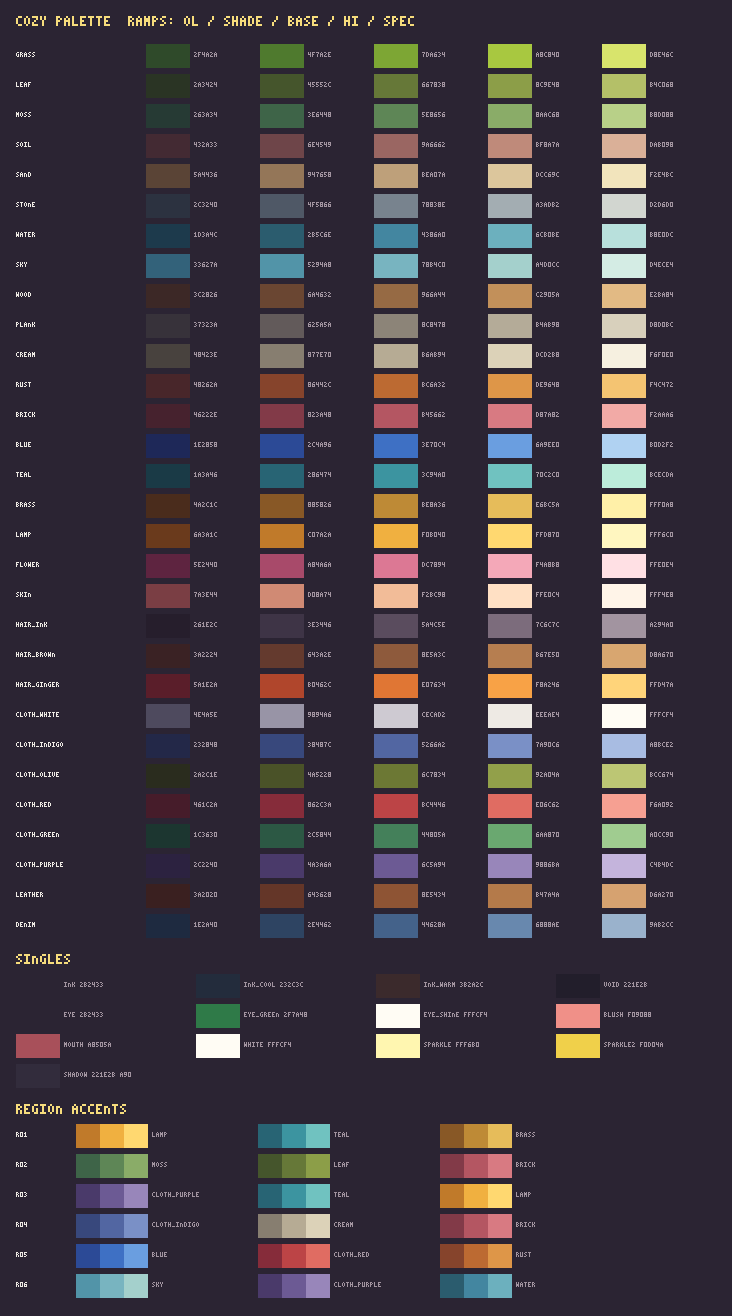
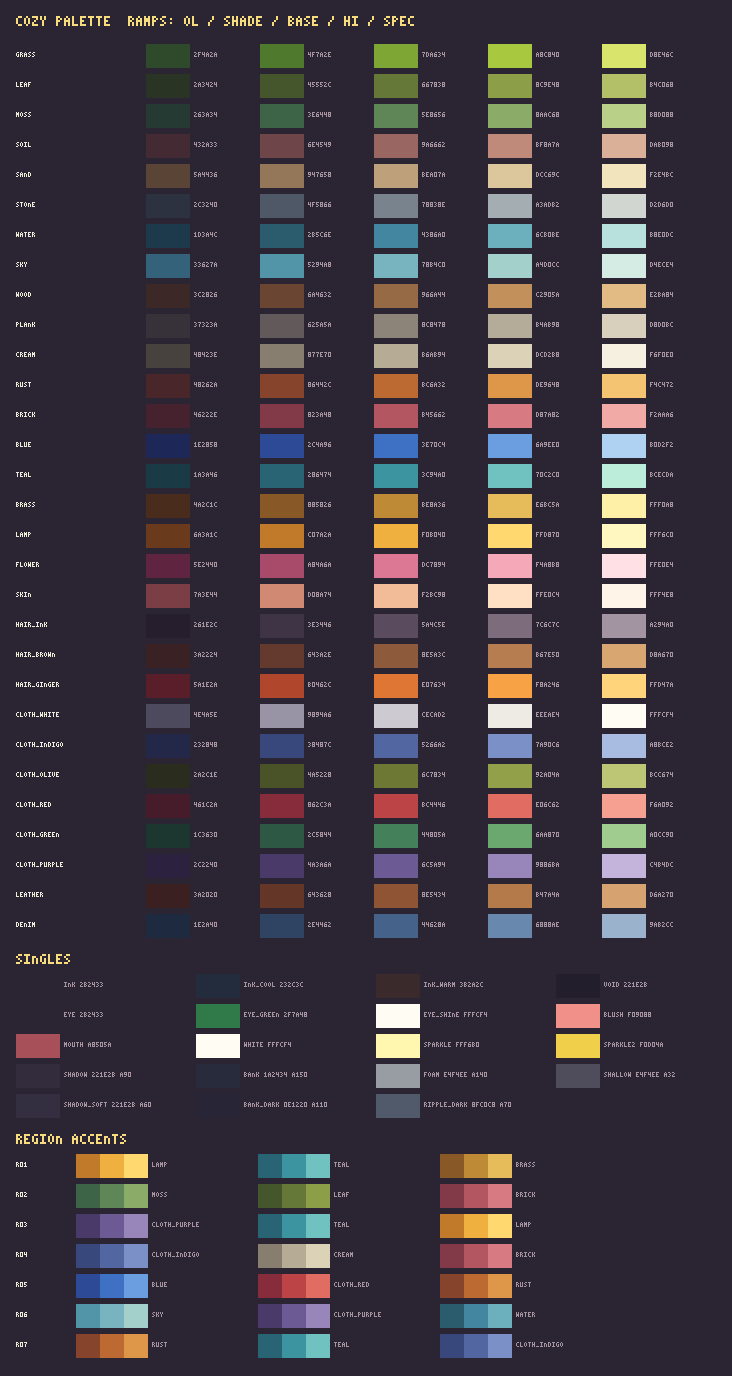
화풍 통일: 지역 3~7 병렬 준비(r07 강조 램프 rust·teal·cloth_indigo, 미리보기 스크립트에 지역 칸·다중 보스, DECO_UNDER 자동 수집)

diff --git a/tools/art/monster_preview.py b/tools/art/monster_preview.py
@@ -15,14 +15,24 @@ sys.path.insert(0, HERE)
 
 from boss import BOSSES  # noqa: E402
 from build import text  # noqa: E402
+from cave_boss import CAVE_BOSSES  # noqa: E402
+from cave_monsters import CAVE_MONSTERS  # noqa: E402
 from cozysamples import grass, path  # noqa: E402
+from desert_boss import DESERT_BOSSES  # noqa: E402
+from desert_monsters import DESERT_MONSTERS  # noqa: E402
 from forest_boss import FOREST_BOSSES  # noqa: E402
 from forest_monsters import FOREST_MONSTERS  # noqa: E402
 from forest_tiles import FOREST_FLOOR, ROOT_FLOOR  # noqa: E402
 from gif import write_gif  # noqa: E402
 from gridlib import Canvas  # noqa: E402
+from lake_boss import LAKE_BOSSES  # noqa: E402
+from lake_monsters import LAKE_MONSTERS  # noqa: E402
+from library_boss import LIBRARY_BOSSES  # noqa: E402
+from library_monsters import LIBRARY_MONSTERS  # noqa: E402
 from monsters import MONSTERS  # noqa: E402
 from png import encode_png  # noqa: E402
+from port_boss import PORT_BOSSES  # noqa: E402
+from port_monsters import PORT_MONSTERS  # noqa: E402
 
 ROOT = os.path.normpath(os.path.join(HERE, "..", ".."))
 OUT = os.path.join(ROOT, "docs", "art-overhaul")
@@ -59,7 +69,51 @@ REGIONS = {
         },
         "boss": ("boss_crossroad_tree", "doze / breathe / hand turns / awake (roots glow)"),
     },
+    # 지역 3~7: 화풍 통일 병렬 작업에서 그 지역 에이전트가 자기 칸의 floor·path·notes·boss만 채운다.
+    # floor·path는 그 지역 타일 모듈을 함수 안에서 import한다(이 파일 머리의 import는 고치지 않음).
+    # boss는 (이름, 메모) 하나 또는 보스가 둘인 지역은 그 목록
+    "r03": {
+        "out": "r03-monsters", "title": "region 3 monsters", "monsters": CAVE_MONSTERS, "bosses": CAVE_BOSSES,
+        "floor": None,
+        "path": None,
+        "notes": {},
+        "boss": None,
+    },
+    "r04": {
+        "out": "r04-monsters", "title": "region 4 monsters", "monsters": LIBRARY_MONSTERS, "bosses": LIBRARY_BOSSES,
+        "floor": None,
+        "path": None,
+        "notes": {},
+        "boss": None,
+    },
+    "r05": {
+        "out": "r05-monsters", "title": "region 5 monsters", "monsters": PORT_MONSTERS, "bosses": PORT_BOSSES,
+        "floor": None,
+        "path": None,
+        "notes": {},
+        "boss": None,
+    },
+    "r06": {
+        "out": "r06-monsters", "title": "region 6 monsters", "monsters": LAKE_MONSTERS, "bosses": LAKE_BOSSES,
+        "floor": None,
+        "path": None,
+        "notes": {},
+        "boss": None,
+    },
+    "r07": {
+        "out": "r07-monsters", "title": "region 7 monsters", "monsters": DESERT_MONSTERS, "bosses": DESERT_BOSSES,
+        "floor": None,
+        "path": None,
+        "notes": {},
+        "boss": None,
+    },
 }
+
+
+def boss_list(cfg):
+    """cfg["boss"]: (이름, 메모) 하나 또는 그 목록(중간 보스가 있는 지역)"""
+    b = cfg["boss"]
+    return b if isinstance(b, list) else [b]
 
 
 def tiled(tile, w, h):
@@ -83,7 +137,7 @@ def sheet(cfg):
     W = 16 + 4 * cell + 16 + battle_w + 16 + map_w + 16
     row_h = 16 * S + 30
     boss_h = 32 * BS + 30 + 96 + 16
-    H = 16 + 20 + len(order) * row_h + 20 + boss_h + 16
+    H = 16 + 20 + len(order) * row_h + 20 + len(boss_list(cfg)) * boss_h + 16
     cv = Canvas(W, H, BG)
     text(cv, f"{cfg['title']}  4 frames  (x8 / battle x4 / map x1 x3)", 16, 12, 2, HEAD)
     g_tile, p_tile = cfg["floor"](), cfg["path"]()
@@ -112,30 +166,32 @@ def sheet(cfg):
             cv.paste(bg, mx + 4 * 18 + 8 + i * 52, y0, 3)
         y += row_h
     y += 20
-    boss, note = cfg["boss"]
-    text(cv, f"{boss}  -  {note} (x6, battle x3)", 16, y, 1, DIM)
-    y0 = y + 10
-    for i, g in enumerate(cfg["bosses"][boss]):
-        bg = tiled(p_tile, 32, 32)
-        bg.draw(g)
-        cv.paste(bg, 16 + i * (32 * BS + 10), y0, BS)
-    y1 = y0 + 32 * BS + 16
-    cv.fill_rect(12, y1 - 4, 4 * 106 + 8, 96 + 8, PANEL)
-    for i, g in enumerate(cfg["bosses"][boss]):
-        cv.paste(frame_cv(g), 16 + i * 106, y1, 3)
+    for boss, note in boss_list(cfg):
+        text(cv, f"{boss}  -  {note} (x6, battle x3)", 16, y, 1, DIM)
+        y0 = y + 10
+        for i, g in enumerate(cfg["bosses"][boss]):
+            bg = tiled(p_tile, 32, 32)
+            bg.draw(g)
+            cv.paste(bg, 16 + i * (32 * BS + 10), y0, BS)
+        y1 = y0 + 32 * BS + 16
+        cv.fill_rect(12, y1 - 4, 4 * 106 + 8, 96 + 8, PANEL)
+        for i, g in enumerate(cfg["bosses"][boss]):
+            cv.paste(frame_cv(g), 16 + i * 106, y1, 3)
+        y += boss_h
     return cv
 
 
 def gif_frames(cfg):
     order = list(cfg["notes"])
-    boss = cfg["boss"][0]
-    W, H = len(order) * 72 + 112 + 16, 112
+    bosses = [b for b, _ in boss_list(cfg)]
+    W, H = len(order) * 72 + len(bosses) * 104 + 8 + 16, 112
     out = []
     for i in range(4):
         cv = Canvas(W, H, PANEL)
         for k, name in enumerate(order):
             cv.paste(frame_cv(cfg["monsters"][name][i]), 8 + k * 72, 24, 4)
-        cv.paste(frame_cv(cfg["bosses"][boss][i]), 8 + len(order) * 72 + 8, 8, 3)
+        for k, boss in enumerate(bosses):
+            cv.paste(frame_cv(cfg["bosses"][boss][i]), 8 + len(order) * 72 + 8 + k * 104, 8, 3)
         out.append(cv)
     return out
 

diff --git a/tools/art/map_preview.py b/tools/art/map_preview.py
@@ -62,6 +62,42 @@ REGIONS = {
         "views": [("entrance", 0, 5 * TS), ("traveler", 14 * TS, 9 * TS), ("woodcutter", 37 * TS, 2 * TS),
                   ("stream", 53 * TS, 8 * TS), ("loop", 20 * TS, 7 * TS), ("boss", 63 * TS, 5 * TS)],
     },
+    # 지역 3~7: 화풍 통일 병렬 작업에서 그 지역 에이전트가 자기 칸의 ground·mass·areas·views만 채운다
+    "r03": {
+        "dir": "r03-goblin-cave", "title": "goblin cave", "tiles": (36, 48), "town": False,
+        "ground": [],
+        "mass": [],
+        "areas": [],
+        "views": [],
+    },
+    "r04": {
+        "dir": "r04-grand-library", "title": "grand library", "tiles": (48, 60), "town": False,
+        "ground": [],
+        "mass": [],
+        "areas": [],
+        "views": [],
+    },
+    "r05": {
+        "dir": "r05-trade-port", "title": "trade port", "tiles": (60, 74), "town": False,
+        "ground": [],
+        "mass": [],
+        "areas": [],
+        "views": [],
+    },
+    "r06": {
+        "dir": "r06-mirror-lake", "title": "mirror lake", "tiles": (74, 88), "town": False,
+        "ground": [],
+        "mass": [],
+        "areas": [],
+        "views": [],
+    },
+    "r07": {
+        "dir": "r07-hourglass-desert", "title": "hourglass desert", "tiles": (88, 103), "town": False,
+        "ground": [],
+        "mass": [],
+        "areas": [],
+        "views": [],
+    },
 }
 
 

diff --git a/tools/art/build.py b/tools/art/build.py
@@ -59,8 +59,11 @@ from portraits import PORTRAITS  # noqa: E402
 from tiles import DECO_UNDER as R01_DECO_UNDER, TILE_ANIMATIONS, TILES as R01_TILES  # noqa: E402
 from town_objects import TOWN_OBJECTS  # noqa: E402
 
-# 미리보기에서 투명 물체 타일 밑에 깔 바닥(코지 화풍으로 다시 그린 지역의 물체 타일)
+# 미리보기에서 투명 물체 타일 밑에 깔 바닥(코지 화풍으로 다시 그린 지역의 물체 타일).
+# 지역 3~7 타일 모듈은 DECO_UNDER가 있으면 모은다(화풍 통일 병렬 작업에서 이 파일을 고치지 않게)
 DECO_UNDER = {**R01_DECO_UNDER, **FOREST_DECO_UNDER}
+for _mod in ("cave_tiles", "library_tiles", "port_tiles", "lake_tiles", "desert_tiles"):
+    DECO_UNDER.update(getattr(sys.modules[_mod], "DECO_UNDER", {}))
 TILES ={**R01_TILES, **FOREST_TILES, **CAVE_TILES, **LIBRARY_TILES, **PORT_TILES, **LAKE_TILES, **DESERT_TILES}
 # 지역 2·3·4·5·6·7에서 새로 생긴 에셋(미리보기를 지역별로 나눌 때 쓴다)
 R02_NAMES = set(FOREST_TILES) | set(FOREST_CHARACTERS) | set(FOREST_MONSTERS) | set(FOREST_BOSSES)

diff --git a/tools/art/overhaul_preview.py b/tools/art/overhaul_preview.py
@@ -10,6 +10,7 @@
 
     python tools/art/overhaul_preview.py r02   # 화풍 통일: r02-characters.png(지역 NPC 시트 + 주인공·누리)만
 """
+import importlib
 import os
 import sys
 
@@ -258,9 +259,10 @@ def walk_gif_frames():
 
 def region_characters(region):
     """화풍 통일: 그 지역 NPC 시트(6열 × 4행, 6배)를 주인공·누리와 나란히 → rNN-characters.png"""
-    if region == "r02":
-        from forest_npcs import RIGS as REGION_RIGS
-    else:
+    modules = {"r02": "forest_npcs", "r03": "cave_npcs", "r04": "library_npcs", "r05": "port_npcs",
+               "r06": "lake_npcs", "r07": "desert_npcs"}
+    REGION_RIGS = getattr(importlib.import_module(modules[region]), "RIGS", None) if region in modules else None
+    if not REGION_RIGS:
         raise SystemExit(f"no NPC rigs for {region}")
     rigs = {"player": RIGS["player"], "nuri": RIGS["nuri"], **REGION_RIGS}
     print(os.path.relpath(save(characters_sheet(rigs), f"{region}-characters.png"), ROOT))

diff --git a/tools/art/cozypal.py b/tools/art/cozypal.py
@@ -95,6 +95,7 @@ REGION_ACCENTS = {
     "r04": ("cloth_indigo", "cream", "brick"),   # 무너진 대도서관: 잉크 남색 + 양피지 + 봉랍 빨강
     "r05": ("blue", "cloth_red", "rust"),        # 교역항: 바다 파랑 + 깃발 빨강 + 녹
     "r06": ("sky", "cloth_purple", "water"),     # 거울 호수: 안개 하늘빛 + 연보라 + 물
+    "r07": ("rust", "teal", "cloth_indigo"),     # 모래시계 사막: 붉은 사암·주황 모래 그늘 + 오아시스·멈춘 시간 룬 + 별자리 밤하늘
 }
 
 # ── 문자 배정 ─────────────────────────────────────────────────────────────────────

diff --git a/docs/art-overhaul/style-guide.md b/docs/art-overhaul/style-guide.md
@@ -87,6 +87,7 @@
 | r04 무너진 대도서관 | cloth_indigo · cream · brick | 잉크 남색, 양피지, 봉랍 빨강 |
 | r05 교역항 | blue · cloth_red · rust | 바다 파랑, 깃발 빨강, 녹 |
 | r06 거울 호수 | sky · cloth_purple · water | 안개 하늘빛, 연보라, 물 |
+| r07 모래시계 사막 | rust · teal · cloth_indigo | 붉은 사암·주황 모래 그늘, 오아시스·멈춘 시간 룬, 별자리 유적 밤하늘. 바닥은 공통 `sand`(§4.4 '바닥 = 강조 램프 base'의 예외: `rust.base`는 맵 전체 바닥으로 쓰기에 채도가 높음). 모래시계 틀·제단은 공통 `brass` |
 
 새 램프가 필요하면 `cozypal.RAMPS` **끝에** 추가합니다(앞에 끼우면 문자 배정이 바뀌어 모든 PNG 바이트가 달라집니다).
 
